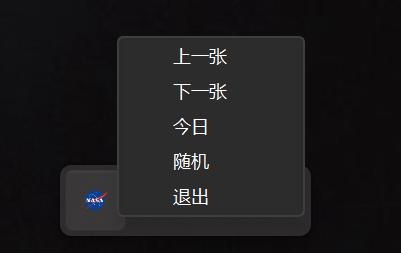
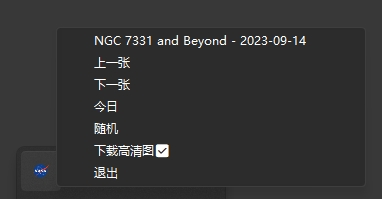
1.0.2

diff --git a/src/main.rs b/src/main.rs
@@ -1,96 +1,155 @@
 #![cfg_attr(not(debug_assertions), windows_subsystem = "windows")]
 
 use anyhow::{anyhow, Result};
+use arboard::Clipboard;
 use chrono::{DateTime, Utc};
 use image::EncodableLayout;
 use std::collections::HashMap;
-use tao::event_loop::{ControlFlow, EventLoopBuilder};
+use tao::{
+    event::Event,
+    event_loop::{ControlFlow, EventLoopBuilder, EventLoopProxy},
+};
 use tray_icon::{
     menu::{Menu, MenuEvent, MenuId, MenuItem},
-    TrayIconBuilder,
+    TrayIcon, TrayIconBuilder,
 };
 
 const MENU_ID_PREV: &str = "1001";
 const MENU_ID_NEXT: &str = "1002";
 const MENU_ID_RAND: &str = "1003";
 const MENU_ID_TODAY: &str = "1004";
+const MENU_ID_DATE: &str = "1005";
+const MENU_ID_HD: &str = "1006";
 const MENU_ID_EXIT: &str = "2005";
 
-fn main() -> Result<()> {
-    let event_loop = EventLoopBuilder::new().build();
+#[derive(Clone)]
+struct DownloadInfo {
+    date: DateTime<Utc>,
+    title: String,
+    hd: bool,
+}
 
-    let menu = create_menu()?;
+fn main() -> Result<()> {
+    let event_loop = EventLoopBuilder::<HashMap<String, String>>::with_user_event().build();
+
     let icon = load_tray_icon()?;
 
-    let _tray_icon = Some(
-        TrayIconBuilder::new()
-            .with_menu(Box::new(menu))
-            .with_tooltip("Astronomy Picture of the Day")
-            .with_icon(icon)
-            .build()?,
-    );
+    let tray_icon = TrayIconBuilder::new()
+        .with_tooltip("Astronomy Picture of the Day")
+        .with_icon(icon)
+        .build()?;
 
-    let mut date = Utc::now();
+    let mut info = DownloadInfo {
+        date: Utc::now(),
+        title: "正在下载...".to_string(),
+        hd: false,
+    };
 
-    download_picture_async(date);
+    let proxy = event_loop.create_proxy();
+
+    tray_icon.set_menu(Some(Box::new(create_menu(&info)?)));
+
+    download_picture_async(info.clone(), proxy.clone());
 
     let menu_channel = MenuEvent::receiver();
 
-    event_loop.run(move |_event, _, control_flow| {
+    event_loop.run(move |event, _, control_flow| {
         *control_flow = ControlFlow::Wait;
 
         if let Ok(MenuEvent { id }) = menu_channel.try_recv() {
             if id == MENU_ID_EXIT {
                 *control_flow = ControlFlow::Exit;
             } else {
-                on_menu_event(id, &mut date);
+                on_menu_event(id, &mut info, &tray_icon, proxy.clone());
+            }
+        }
+        if let Event::UserEvent(event) = event {
+            //更新菜单
+            if let (Some(image_date), Some(image_title)) = (event.get("date"), event.get("title")) {
+                info.date = image_date.parse().unwrap_or(info.date);
+                info.title = format!("{image_title} - {image_date}");
+                if let Ok(menu) = create_menu(&info) {
+                    tray_icon.set_menu(Some(Box::new(menu)));
+                }
             }
         }
     });
 }
 
 // 菜单点击处理
-fn on_menu_event(id: MenuId, current_date: &mut DateTime<Utc>) {
+fn on_menu_event(
+    id: MenuId,
+    info: &mut DownloadInfo,
+    tray_icon: &TrayIcon,
+    proxy: EventLoopProxy<HashMap<String, String>>,
+) {
     if id == MENU_ID_PREV {
-        *current_date = *current_date - chrono::Duration::days(1);
-        download_picture_async(*current_date);
+        info.date = info.date - chrono::Duration::days(1);
+        download_picture_async(info.clone(), proxy);
     } else if id == MENU_ID_NEXT {
-        if *current_date.format("%Y-%m-%d").to_string() == Utc::now().format("%Y-%m-%d").to_string()
-        {
+        if info.date.format("%Y-%m-%d").to_string() == Utc::now().format("%Y-%m-%d").to_string() {
             return;
         }
-        *current_date = *current_date + chrono::Duration::days(1);
-        download_picture_async(*current_date);
+        info.date = info.date + chrono::Duration::days(1);
+        download_picture_async(info.clone(), proxy);
     } else if id == MENU_ID_TODAY {
-        *current_date = Utc::now();
-        download_picture_async(*current_date);
+        info.date = Utc::now();
+        download_picture_async(info.clone(), proxy);
     } else if id == MENU_ID_RAND {
         let date1 = Utc::now() - chrono::Duration::days(180);
         let days = fastrand::i64(0..180);
-        *current_date = date1 + chrono::Duration::days(days);
-        download_picture_async(*current_date);
+        info.date = date1 + chrono::Duration::days(days);
+        download_picture_async(info.clone(), proxy);
+    } else if id == MENU_ID_DATE {
+        //图片标题复制到剪贴板
+        if let (true, Ok(mut clipboard)) = (info.title.len() > 0, Clipboard::new()) {
+            let _ = clipboard.set_text(&info.title);
+        }
+    } else if id == MENU_ID_HD {
+        //切换高清和非高清
+        info.hd = !info.hd;
+        if let Ok(menu) = create_menu(info) {
+            tray_icon.set_menu(Some(Box::new(menu)));
+        }
+        download_picture_async(info.clone(), proxy);
     }
 }
 
 // 异步下载图片
-fn download_picture_async(date: DateTime<Utc>) {
-    std::thread::spawn(move || match download_picture(date) {
-        Ok(url) => println!("图片下载成功:{url}"),
-        Err(err) => eprintln!("图片下载失败:{:?}", err),
+fn download_picture_async(info: DownloadInfo, proxy: EventLoopProxy<HashMap<String, String>>) {
+    std::thread::spawn(move || match download_picture(info) {
+        Ok(json) => {
+            println!("图片下载成功:{:?}", json.get("url"));
+            let _ = proxy.send_event(json);
+        }
+        Err(err) => {
+            eprintln!("图片下载失败:{:?}", err);
+            let _ = proxy.send_event(HashMap::new());
+        }
     });
 }
 
 // 下载壁纸
-fn download_picture(date: DateTime<Utc>) -> Result<String> {
+fn download_picture(mut info: DownloadInfo) -> Result<HashMap<String, String>> {
     let api_key = "DEMO_KEY";
-    let formatted_date = date.format("%Y-%m-%d").to_string();
-    let json = reqwest::blocking::get(format!(
-        "https://api.nasa.gov/planetary/apod?api_key={api_key}&date={formatted_date}"
-    ))?
-    .json::<HashMap<String, String>>()?;
-    // 下载地址存放于url和hdurl, hdurl是高清图
-    let url = match json.get("url") {
-        None => return Err(anyhow!("url 为空!")),
+    let formatted_date = info.date.format("%Y-%m-%d").to_string();
+    let url =
+        format!("https://api.nasa.gov/planetary/apod?api_key={api_key}&date={formatted_date}");
+    println!("url={url}");
+    let resp = reqwest::blocking::get(url)?;
+    let status_code = resp.status().as_u16();
+    println!("status_code={status_code}");
+    if status_code == 400 || status_code == 404 {
+        //往前一天
+        info.date = info.date - chrono::Duration::days(1);
+        return download_picture(info);
+    }
+
+    let json = resp.json::<HashMap<String, String>>()?;
+
+    let url_key = if info.hd { "hdurl" } else { "url" };
+    let url = match json.get(url_key) {
+        None => return Err(anyhow!("{url_key} 为空!")),
         Some(url) => url,
     };
     println!("下载:{url}...");
@@ -99,31 +158,43 @@ fn download_picture(date: DateTime<Utc>) -> Result<String> {
     //设置锁屏
     #[cfg(target_os = "windows")]
     {
-        use windows::{Storage::StorageFile, core::HSTRING, System::UserProfile::LockScreen};
+        use windows::{core::HSTRING, Storage::StorageFile, System::UserProfile::LockScreen};
         //下载图片
-        let mut file_name = match dirs::download_dir(){
+        let mut file_name = match dirs::download_dir() {
             Some(p) => p,
-            None => return Err(anyhow!("路径错误"))
+            None => return Err(anyhow!("路径错误")),
         };
-        file_name.push(format!("lock-screen-{}.jpg", date.format("%Y-%m-%d")));
-        image::load_from_memory(reqwest::blocking::get(url)?.bytes()?.as_bytes())?.save(&file_name)?;
-        if let Some(path) = file_name.to_str(){
+        file_name.push(format!("lock-screen-{}.jpg", info.date.format("%Y-%m-%d")));
+        image::load_from_memory(reqwest::blocking::get(url)?.bytes()?.as_bytes())?
+            .save(&file_name)?;
+        if let Some(path) = file_name.to_str() {
             let file = StorageFile::GetFileFromPathAsync(&HSTRING::from(path))?.get()?;
             LockScreen::SetImageFileAsync(&file)?.get()?;
             println!("锁屏设置成功:{path}");
         }
     }
 
-    Ok(url.to_string())
+    Ok(json)
 }
 
 // 创建菜单
-fn create_menu() -> Result<Menu> {
+fn create_menu(info: &DownloadInfo) -> Result<Menu> {
     let menu = Menu::new();
+    menu.append(&MenuItem::with_id(MENU_ID_DATE, &info.title, true, None))?;
     menu.append(&MenuItem::with_id(MENU_ID_PREV, "上一张", true, None))?;
     menu.append(&MenuItem::with_id(MENU_ID_NEXT, "下一张", true, None))?;
     menu.append(&MenuItem::with_id(MENU_ID_TODAY, "今日", true, None))?;
     menu.append(&MenuItem::with_id(MENU_ID_RAND, "随机", true, None))?;
+    menu.append(&MenuItem::with_id(
+        MENU_ID_HD,
+        if info.hd {
+            "下载高清图☑"
+        } else {
+            "下载高清图"
+        },
+        true,
+        None,
+    ))?;
     menu.append(&MenuItem::with_id(MENU_ID_EXIT, "退出", true, None))?;
     Ok(menu)
 }
